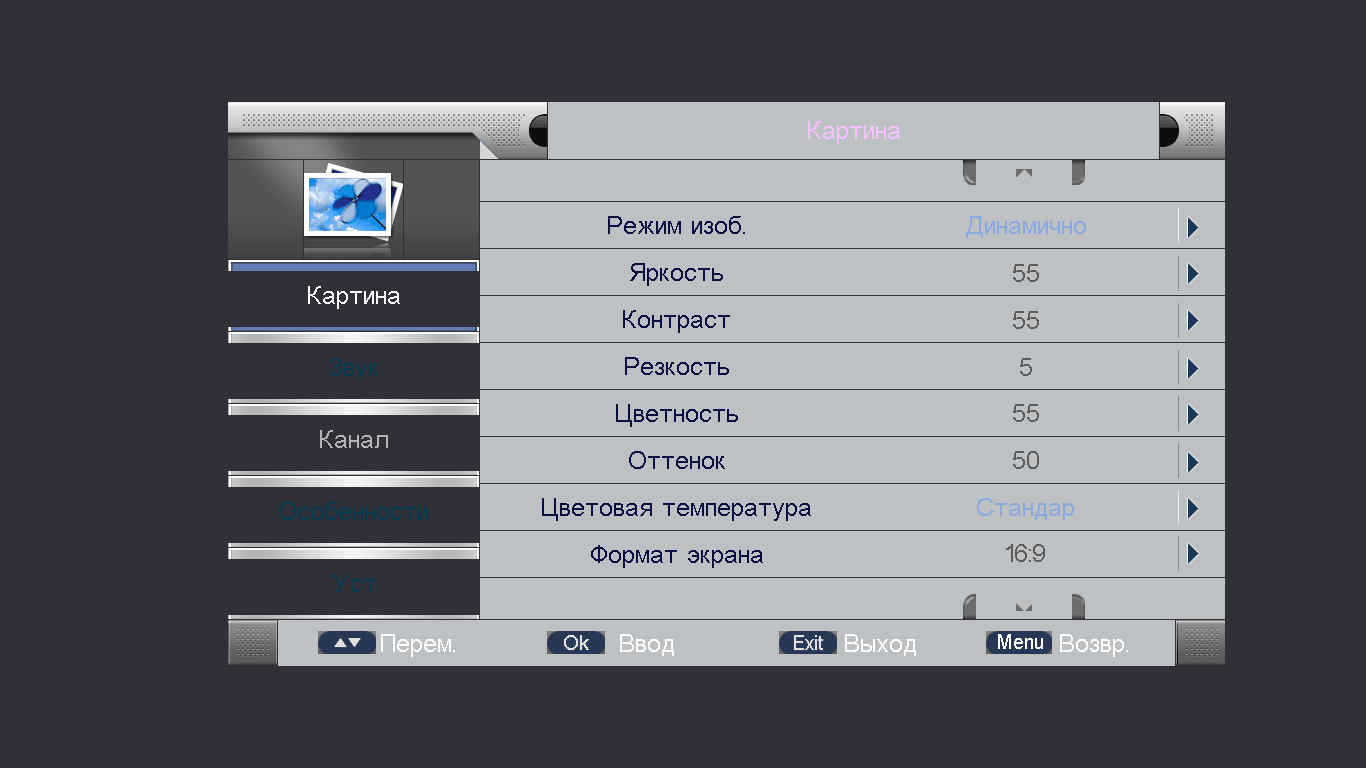
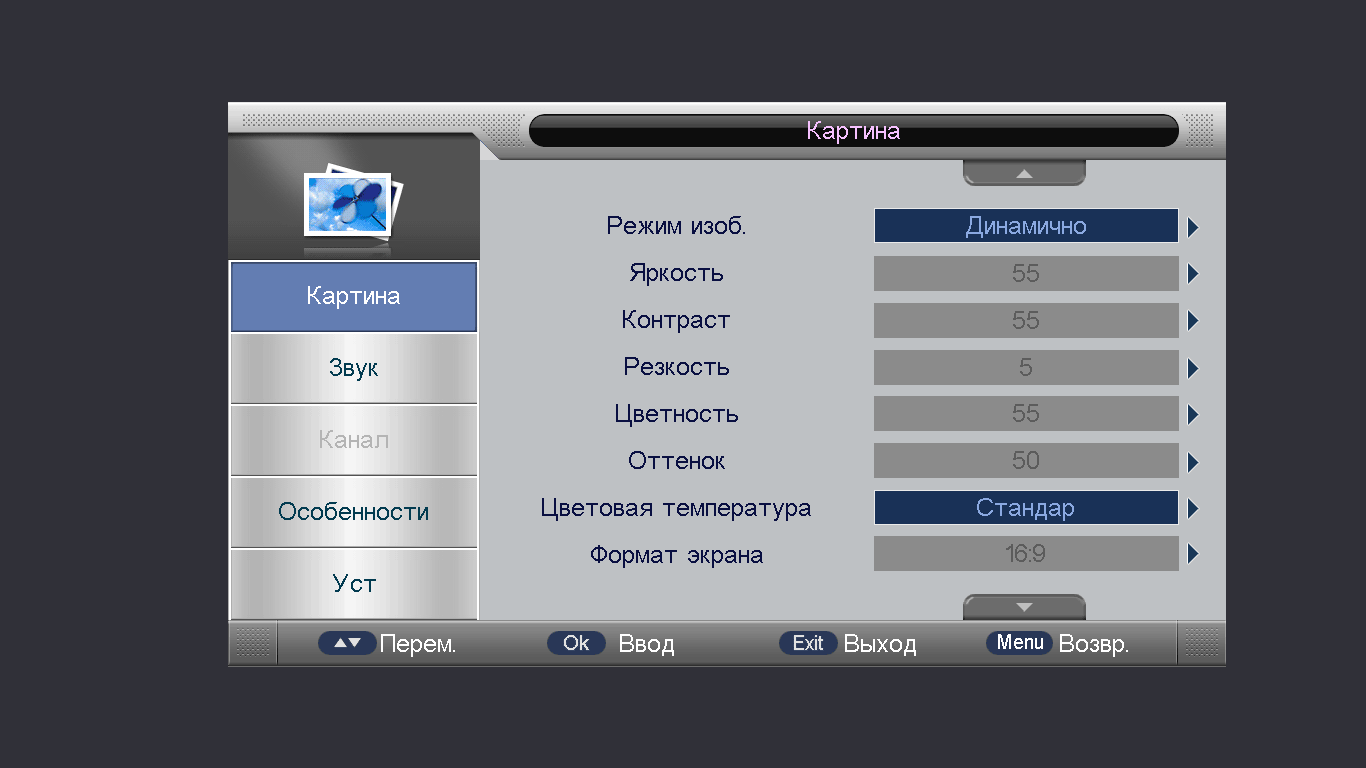
Sunplus GPU model: (w-1,h-1) rect sizes, stretch destination from 0x75/0x76; Manta menu now renders correctly

Changed region(s): [[0.1537, 0.125, 0.8609, 0.875]]

diff --git a/tools/sunplus_run.cpp b/tools/sunplus_run.cpp
@@ -105,7 +105,7 @@ static void mmioWrite(uc_engine*, uint64_t off, unsigned size, uint64_t value, v
   if ((uint32_t(off) == 0xA1D4) && std::getenv("SUNPLUS_CLUT_TRACE")) std::printf("clut idx %02x : %08x %08x %08x (pc %08x)\n", m.written.count(0xA1C8) ? m.written[0xA1C8] & 0xff : 0xff, m.written.count(0xA1CC) ? m.written[0xA1CC] : 0, m.written.count(0xA1D0) ? m.written[0xA1D0] : 0, uint32_t(value), m.lastBlock());   // debugging aid: 256-entry table loaded via 0xBFFEA1C8 (index) / 1CC / 1D0 / 1D4
   if (uint32_t(off) == 0x3590 && (std::getenv("SUNPLUS_GPU_TRACE") || m.gpuOn)) {   // debugging aid: dump the SUNPLUS GPU command words (reg<<24|data; 0xA0000000|n = execute n) between the previous and the new FIFO write pointer
     const uint32_t base = m.written.count(0x358C) ? m.written[0x358C] << 10 : 0, wp = uint32_t(v) & 0xffff; ++m.gpuKicks;
-    if (std::getenv("SUNPLUS_GPU_TRACE")) std::printf("gpu kick %llu: fifo base %08x wp %04x (prev %04x):", (unsigned long long)m.gpuKicks, base, wp, m.gpuLastWp);
+    if (std::getenv("SUNPLUS_GPU_TRACE")) { if (std::getenv("SUNPLUS_KICK_TIME")) std::fprintf(stderr, "kicktime %llu blocks %llu\n", (unsigned long long)m.gpuKicks, (unsigned long long)m.blocks); std::printf("gpu kick %llu: fifo base %08x wp %04x (prev %04x):", (unsigned long long)m.gpuKicks, base, wp, m.gpuLastWp); }
     for (uint32_t a = m.gpuLastWp; a != wp && base; a = (a + 4) & 0xffff) { uint32_t w = 0; m.eng.read(base + a, &w, 4); if (std::getenv("SUNPLUS_GPU_TRACE")) std::printf(" %08x", w); if (m.gpuOn) m.gpu.push(w); if (((a - m.gpuLastWp) & 0xffff) > 0x1000) break; }
     std::printf("\n"); m.gpuLastWp = wp;
     if (const char* bs = std::getenv("SUNPLUS_BEST_SCREEN")) {   // debugging aid: SUNPLUS_BEST_SCREEN=addr,w,h keeps the buffer state with the most non-zero pixels seen after any GPU kick (saved by SUNPLUS_BEST_FILE at exit)
@@ -306,6 +306,7 @@ int main(int argc, char** argv) {
   if (coverHi) { std::printf("covered blocks %08x..%08x:", coverLo, coverHi); for (auto& [a, n] : m.hot) if (a >= coverLo && a < coverHi) std::printf(" %08x:%llu", a, (unsigned long long)n); std::printf("\n"); }
   if (m.spHi) { std::printf("thread blocks (sp %08x..%08x), oldest..newest:", m.spLo, m.spHi); for (uint32_t x : m.spRing) std::printf(" %08x", x); std::printf("\n"); }
   if (!m.bestScreen.empty()) { if (const char* bf = std::getenv("SUNPLUS_BEST_FILE")) { std::ofstream o(bf, std::ios::binary); o.write(reinterpret_cast<const char*>(m.bestScreen.data()), std::streamsize(m.bestScreen.size())); } std::printf("best screen: %llu non-zero px after kick %llu\n", (unsigned long long)m.bestNz, (unsigned long long)m.bestKick); }
+  if (const char* sh = std::getenv("SUNPLUS_SCREEN_HASH")) { unsigned long ba = 0, bw = 0, bh = 0; if (std::sscanf(sh, "%lx,%lu,%lu", &ba, &bw, &bh) == 3 && ba + bw * bh <= m.ram.size()) { uint64_t h = 1469598103934665603ull; uint64_t nz = 0; for (size_t q = 0; q < bw * bh; ++q) { h = (h ^ m.ram[ba + q]) * 1099511628211ull; nz += m.ram[ba + q] != 0; } std::printf("screen hash %016llx nz %llu kicks %llu\n", (unsigned long long)h, (unsigned long long)nz, (unsigned long long)m.gpuKicks); } }   // debugging aid
   if (m.gpuOn) std::printf("gpu: cmd0 %llu cmd3 %llu cmd5 %llu other(1,2,4) %llu/%llu/%llu unsupported %llu clipped px %llu\n", (unsigned long long)m.gpu.executed[0], (unsigned long long)m.gpu.executed[3], (unsigned long long)m.gpu.executed[5], (unsigned long long)m.gpu.executed[1], (unsigned long long)m.gpu.executed[2], (unsigned long long)m.gpu.executed[4], (unsigned long long)m.gpu.unsupported, (unsigned long long)m.gpu.clipped);
   if (!m.thr.empty()) { std::printf("threads (stack bucket -> last block, at blocks):\n"); for (auto& [k, v] : m.thr) std::printf("  sp %08x: %08x @%llu\n", k << 14, v.first, (unsigned long long)v.second); }
   std::printf("last injected vector: %#x (injections %llu)\n", m.lastVec, (unsigned long long)m.irqInjected);

diff --git a/tools/sunplus_gpu.hpp b/tools/sunplus_gpu.hpp
@@ -33,20 +33,23 @@ struct SunplusGpu {
   }
   void fill(uint32_t flags) {
     (void)flags; Surf d = surface(0x60, 0x66); if (!d.ok) { ++unsupported; return; }
-    const int x = sx12(reg[0x80] >> 12), y = sx12(reg[0x80]), w = sx12(reg[0x81] >> 12), h = sx12(reg[0x81]);
+    const int x = sx12(reg[0x80] >> 12), y = sx12(reg[0x80]), w = sx12(reg[0x81] >> 12) + 1, h = sx12(reg[0x81]) + 1;   // rectangle sizes are stored as (width-1, height-1)
     const uint8_t c = color();
     for (int j = 0; j < h; ++j) for (int i = 0; i < w; ++i) { const int px_ = x + i, py = y + j; if (px_ < 0 || py < 0 || px_ >= d.w || py >= d.h) { ++clipped; continue; } *px(d, px_, py) = c; }
   }
   void blit(uint32_t flags, bool stretch) {
-    Surf s = surface(0x50, 0x56), d = surface(0x60, 0x66); if (!d.ok || !s.ok)   /* regs 0x50/51/56 = SOURCE, 0x60/61/66 = DESTINATION (positions only fit this way) */ { ++unsupported; return; }
-    const int sxp = sx12(reg[0x90] >> 12), syp = sx12(reg[0x90]), sw = sx12(reg[0x91] >> 12), sh = sx12(reg[0x91]);
-    const int dx = sx12(reg[0x92] >> 12), dy = sx12(reg[0x92]);
-    const int dw = stretch ? sx12(reg[0x94] >> 12) : sw, dh = stretch ? sx12(reg[0x94]) : sh;
+    Surf s = surface(0x50, 0x56), d = surface(0x60, 0x66); if (!d.ok || !s.ok) { ++unsupported; return; }   /* regs 0x50/51/56 = SOURCE, 0x60/61/66 = DESTINATION (positions only fit this way) */
+    const int sxp = sx12(reg[0x90] >> 12), syp = sx12(reg[0x90]), sw = sx12(reg[0x91] >> 12) + 1, sh = sx12(reg[0x91]) + 1;   // source rect: (x,y) and (width-1,height-1)
+    const int cx0 = sx12(reg[0x75] >> 12), cy0 = sx12(reg[0x75]), cx1 = sx12(reg[0x76] >> 12), cy1 = sx12(reg[0x76]);       // destination clip rect, inclusive end coordinates
+    int dx, dy, dw, dh;
+    if (stretch) { dx = cx0; dy = cy0; dw = cx1 - cx0 + 1; dh = cy1 - cy0 + 1; }   // stretch: the clip rect IS the destination rect (e.g. a 1-px slice stretched across a button)
+    else { dx = sx12(reg[0x92] >> 12); dy = sx12(reg[0x92]); dw = sw; dh = sh; }
     const bool key = flags & 0x08; const uint8_t ck = uint8_t(reg[0x71] & 0xff);
     if (dw <= 0 || dh <= 0 || sw <= 0 || sh <= 0) return;
     for (int j = 0; j < dh; ++j) for (int i = 0; i < dw; ++i) {
       const int ox = dx + i, oy = dy + j, ix = sxp + (stretch ? i * sw / dw : i), iy = syp + (stretch ? j * sh / dh : j);
       if (ox < 0 || oy < 0 || ox >= d.w || oy >= d.h || ix < 0 || iy < 0 || ix >= s.w || iy >= s.h) { ++clipped; continue; }
+      if (!stretch && (ox < cx0 || ox > cx1 || oy < cy0 || oy > cy1)) { ++clipped; continue; }
       const uint8_t p = *px(s, ix, iy); if (key && p == ck) continue; *px(d, ox, oy) = p;
     }
   }
